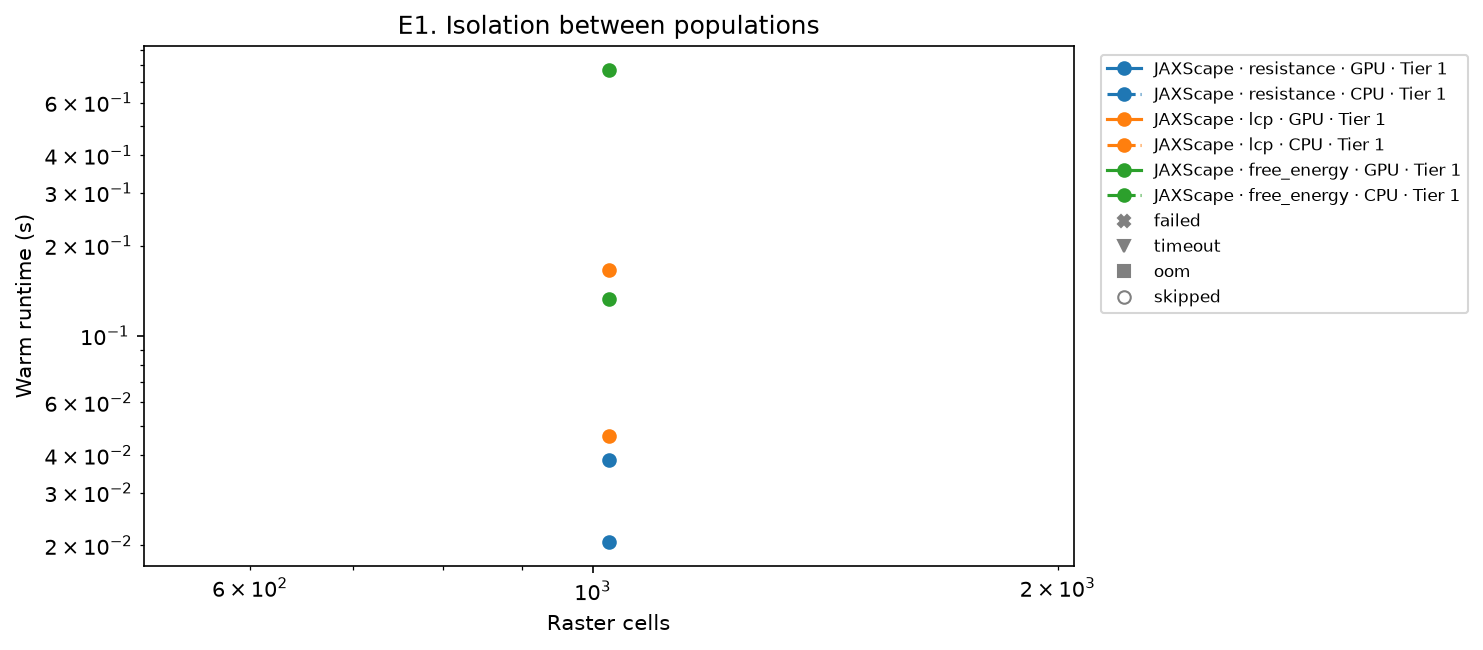
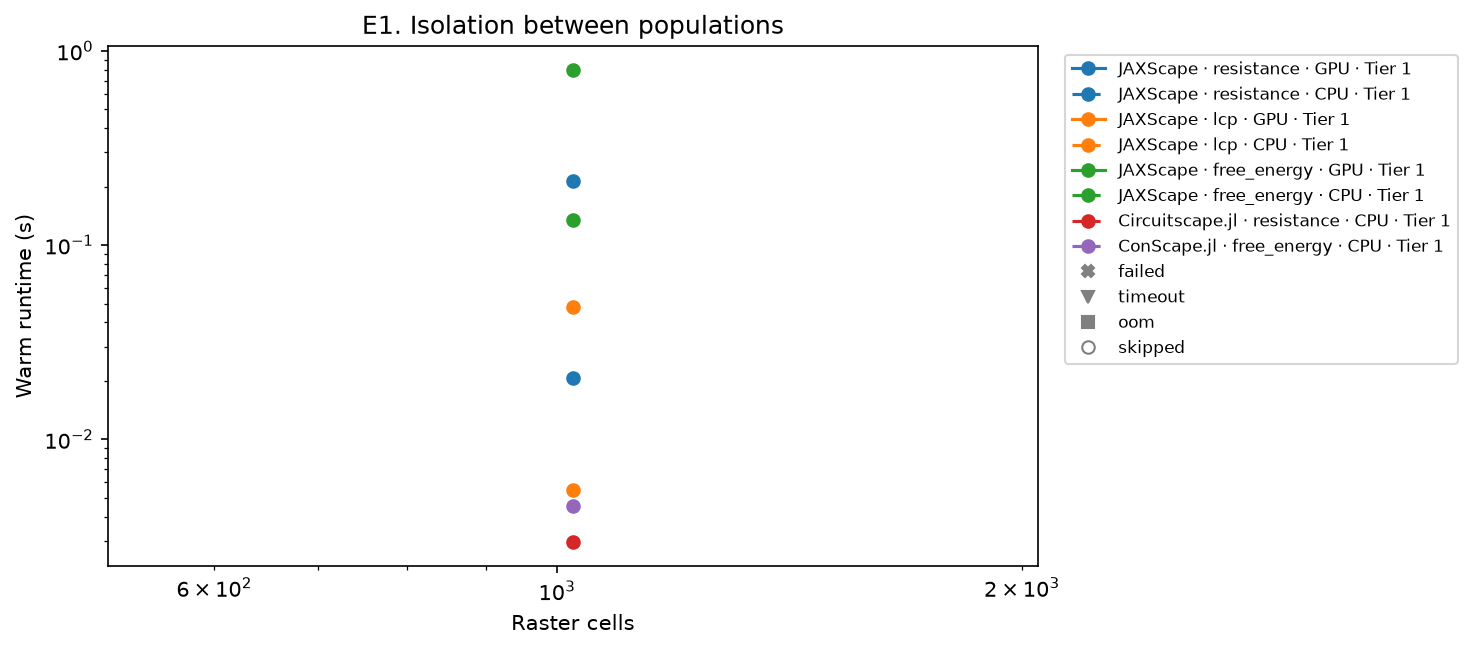
Rerun the smoke run with Circuitscape.jl and ConScape.jl (#76)
Every cell is ok with its agreement: Circuitscape.jl 8.9e-07 with cg+amg
and 4.6e-12 with cholmod, ConScape.jl 1.4e-15.

diff --git a/benchmark/results/smoke/index.md b/benchmark/results/smoke/index.md
@@ -16,11 +16,11 @@ Each synthetic case draws a Gaussian random field with a Gaussian covariance of 
 
 ## Comparison
 
-Each cell runs in its own process, pinned to the cores of the environment table, with thread settings matched to them; XLA sizes its thread pools to these cores. A warm-up call comes first and compiles the code of tools that compile. The warm runtime is the median of the five timed calls that follow it, or the time of a single call when the warm-up takes more than five minutes. Every call redoes all work that depends on the landscape's values: graph assembly, factorization, multigrid hierarchy and solver state. A call stops after one hour. Within a configuration, rasters run from the smallest up, and after a failure, a timeout or running out of memory (`oom`), the configuration skips its larger rasters. In the figures, JAXScape on the GPU is solid and on the CPU dashed, and cells without a runtime show their status along the top edge.
+Each cell runs in its own process, pinned to the cores of the environment table, with thread settings matched to them; XLA sizes its thread pools to these cores. A warm-up call comes first and compiles the code of tools that compile. The warm runtime is the median of the five timed calls that follow it, or the time of a single call when the warm-up takes more than five minutes. Every call redoes all work that depends on the landscape's values: graph assembly, factorization, multigrid hierarchy and solver state. A call stops after one hour. Within a configuration, rasters run from the smallest up, and after a failure, a timeout or running out of memory (`oom`), the configuration skips its larger rasters. A tool runs each setting of a small grid fixed in advance from its documentation: the tables list every setting, and the figures show, at each raster, the fastest setting that succeeds. In the figures, tools on the GPU are solid and on the CPU dashed, and rasters where no setting succeeds show a status along the top edge.
 
 ### E1. Isolation between populations
 
-Each tool computes the distances among 32 sites drawn at random from the habitat cells with a fixed seed, across the whole raster: 496 pairs. The agreement of a record is the largest relative error over the pairs against a float64 reference, computed once for each case and distance: a sparse direct solve with `CholmodSolver` for resistance and free energy, and Dijkstra's algorithm in SciPy for least-cost distances.
+Each tool computes the distances among 32 sites drawn at random from the habitat cells with a fixed seed, across the whole raster: 496 pairs. Every tool builds the same graph: rook contiguity, and the resistance of an edge is the mean resistance of its two pixels. The agreement of a record is the largest relative error over the pairs against a float64 reference, computed once for each case and distance: a sparse direct solve with `CholmodSolver` for resistance and free energy, and Dijkstra's algorithm in SciPy for least-cost distances.
 
 ![E1: warm runtime against raster cells](e1.png)
 
@@ -29,11 +29,14 @@ Agreement (largest relative error) of each configuration and raster, or the stat
 | Tool | Distance | Device | dtype | Solver | Tier | 32² |
 | --- | --- | --- | --- | --- | --- | --- |
 | JAXScape | resistance | GPU | float32 | GridMultigridSolver | 1 | 1.1e-05 |
-| JAXScape | resistance | CPU | float32 | GridMultigridSolver | 1 | 6.5e-06 |
-| JAXScape | lcp | GPU | float32 |  | 1 | 2.0e-07 |
-| JAXScape | lcp | CPU | float32 |  | 1 | 2.0e-07 |
-| JAXScape | free_energy | GPU | float64 | CuDSSSolver | 1 | 2.2e-15 |
+| JAXScape | resistance | CPU | float32 | GridMultigridSolver | 1 | 5.8e-06 |
+| JAXScape | lcp | GPU | float32 |  | 1 | 2.5e-07 |
+| JAXScape | lcp | CPU | float32 |  | 1 | 2.4e-07 |
+| JAXScape | free_energy | GPU | float64 | CuDSSSolver | 1 | 2.5e-15 |
 | JAXScape | free_energy | CPU | float64 | CholmodSolver | 1 | 0.0e+00 |
+| Circuitscape.jl | resistance | CPU | float64 | cg+amg | 1 | 8.9e-07 |
+| Circuitscape.jl | resistance | CPU | float64 | cholmod | 1 | 4.6e-12 |
+| ConScape.jl | free_energy | CPU | float64 |  | 1 | 1.4e-15 |
 
 ## Environment
 
@@ -45,8 +48,8 @@ Agreement (largest relative error) of each configuration and raster, or the stat
 | Cores | 48-63 |
 | Threads | `OMP_NUM_THREADS=16`, `OPENBLAS_NUM_THREADS=16`, `MKL_NUM_THREADS=16`, `JULIA_NUM_THREADS=16`, `RCPP_PARALLEL_NUM_THREADS=16` |
 | Python | 3.13.5 |
-| Packages | jaxscape 0.0.16, jax 0.12.0.1, jaxlib 0.12.0.1, numpy 2.5.4, scipy 1.18.1 |
-| Tools | JAXScape 0.0.16 |
+| Packages | jaxscape 0.0.16, jax 0.12.0.1, jaxlib 0.12.0.1, numpy 2.5.4, scipy 1.18.1, Julia 1.13.3, Circuitscape 6.1.0, ConScape 0.3.0, JSON 1.13.4, NPZ 0.4.3 |
+| Tools | JAXScape 0.0.16, Circuitscape.jl 6.1.0, ConScape.jl 0.3.0 |
 
 ## Parameter mappings
 
@@ -54,7 +57,9 @@ The header comment of each adapter states how it maps the shared parameters onto
 
 | Tool | Questions | Adapter | Mapping |
 | --- | --- | --- | --- |
-| JAXScape | E1 | `adapters/jaxscape.py` | JAXScape builds a `GridGraph` of the permeability raster with rook contiguity, the conductance of an edge being the mean permeability of its two pixels, as its windowed analyses do. Least-cost and free-energy distances take 1 / conductance as the edge cost, and the free energy takes the shared `theta`. E1 is a nodes-to-nodes query among the sites. The distance runs with the solver and dtype of its settings, and every call builds the graph and the solver state. |
+| JAXScape | E1 | `adapters/jaxscape.py` | JAXScape builds a `GridGraph` of the permeability raster with rook contiguity, the conductance of an edge being the harmonic mean of the permeabilities of its two pixels (`landscape.conductance`), so that its resistance is their mean resistance. Least-cost and free-energy distances take 1 / conductance as the edge cost, and the free energy takes the shared `theta`. E1 is a nodes-to-nodes query among the sites. The distance runs with the solver and dtype of its settings, and every call builds the graph and the solver state. |
+| Circuitscape.jl | E1 | `adapters/circuitscape.jl` | Circuitscape.jl computes the pairwise resistances among the E1 sites, in its `pairwise` scenario, with the permeability raster as the conductance of each cell. `connect_four_neighbors_only` gives rook contiguity, and `connect_using_avg_resistances` makes the resistance of an edge the mean resistance of its two cells, as `landscape.conductance` does. The solver is `cg+amg` or `cholmod`, in double precision, with `parallelize` on the Julia threads of the cell. Circuitscape.jl has no public in-memory API for this scenario: each call builds its `RasterData` in memory and runs the internals that `compute` runs after reading files (`build_problem`, `single_ground_all_pairs`), and writes only its table of resistances, to /dev/shm. Every call rebuilds the graph, the Laplacian and the AMG hierarchy or Cholesky factor. |
+| ConScape.jl | E1 | `adapters/conscape.jl` | ConScape.jl computes the free-energy distances among the E1 sites, with the shared `theta`. Its graph has rook contiguity (`N4`), the affinity of an edge being the harmonic mean of the permeabilities of its two pixels (`AverageWeight`), as `landscape.conductance` gives, and the cost of an edge 1 / affinity (`Inv`). The sites are the targets of a `GridRSP`. ConScape's free-energy distance is directed, and the adapter returns the mean of the two directions between two sites, as JAXScape's `FreeEnergyDistance` does. Every call rebuilds the affinities, the `Grid` and the `GridRSP`, with its sparse LU factorization, which runs on the BLAS threads of the cell. |
 
 ## Excluded tools
 
